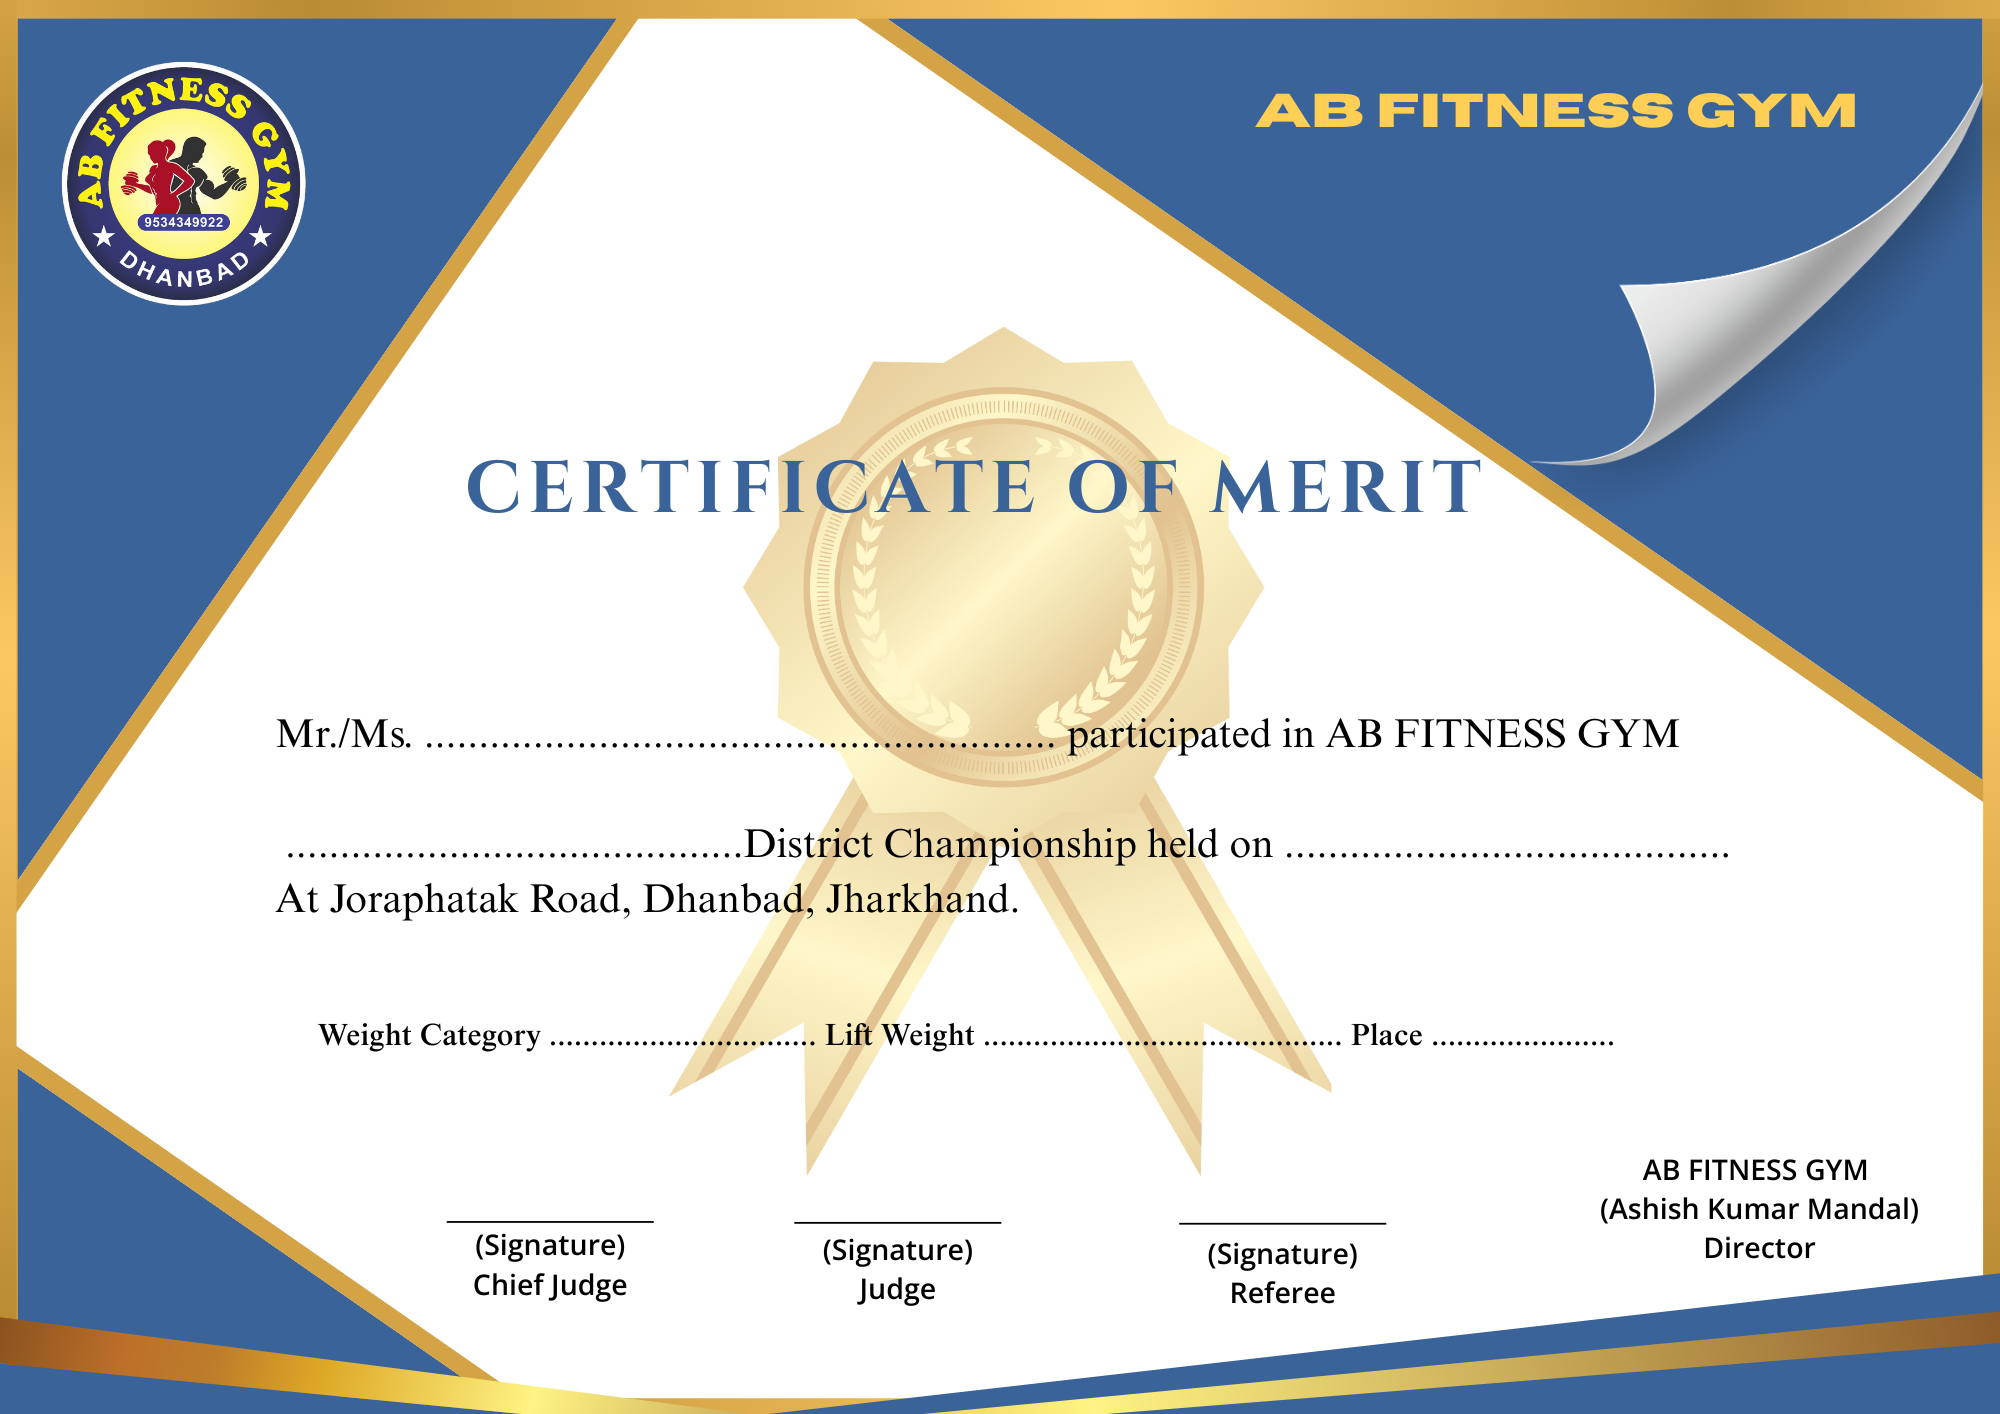
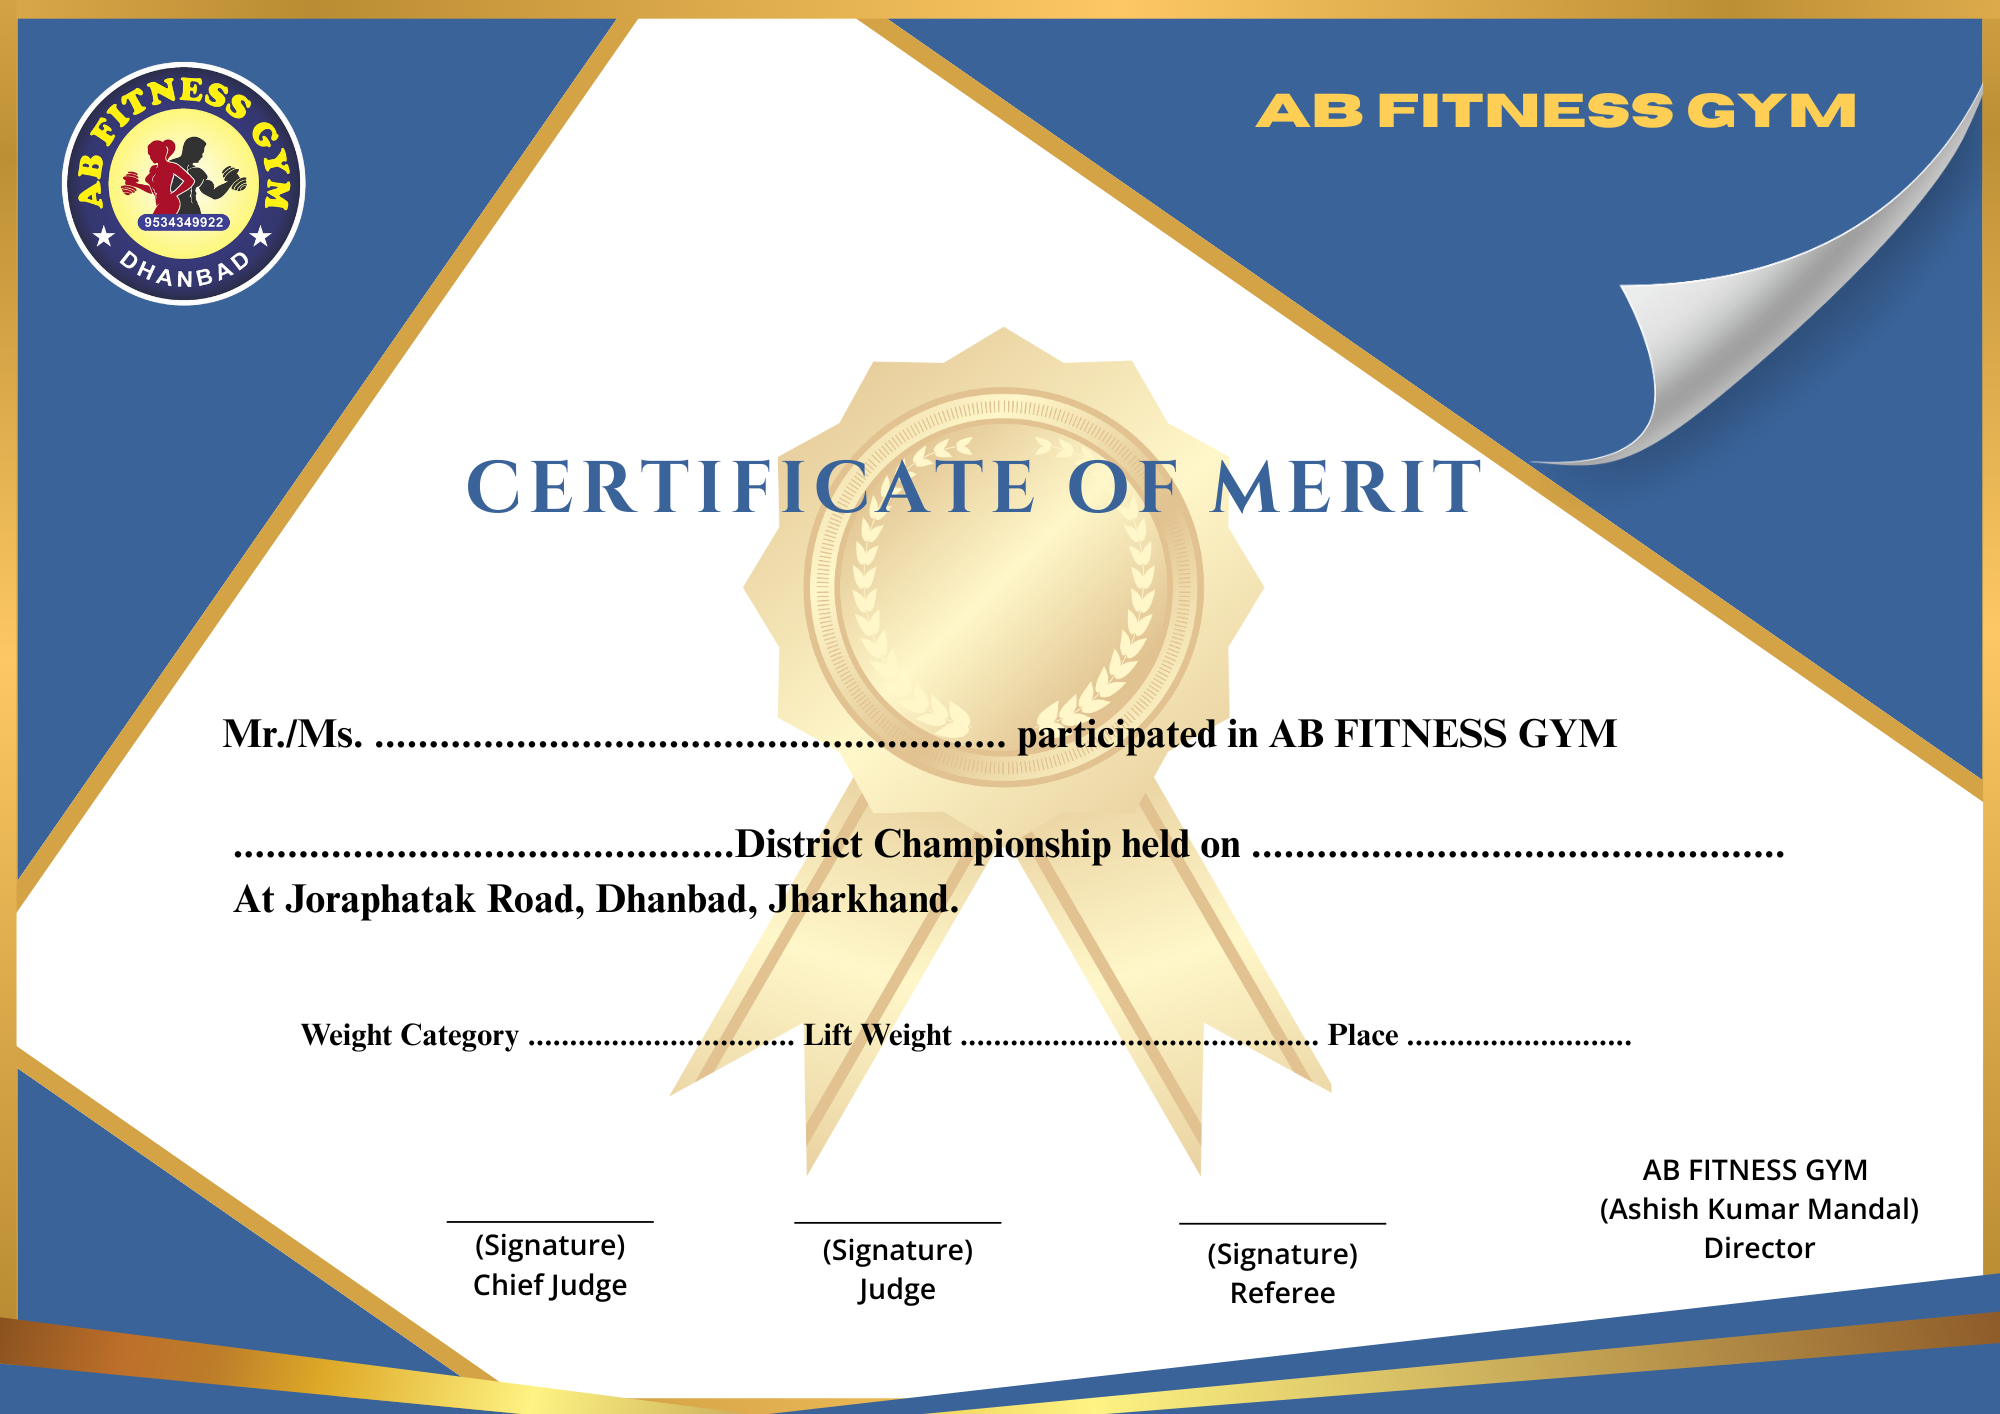
added discount input

diff --git a/frontend/src/pages/private/EditPage.jsx b/frontend/src/pages/private/EditPage.jsx
@@ -40,6 +40,7 @@ const EditMemberForm = () => {
     notes: "",
     profileImage: "",
     planEndDate: "",
+    discount:"",
   });
   const [imagePreview, setImagePreview] = useState(null);
   const [errors, setErrors] = useState({});
@@ -96,7 +97,9 @@ const EditMemberForm = () => {
   }, [isSuccess]);
 
   const selectedPlan = plans.find((p) => p.name === formData.membershipType);
-  const planPrice = selectedPlan?.durations?.[0]?.price || 0;
+   const rawPrice = selectedPlan?.durations?.[0]?.price || 0;
+  const discountPercent = parseFloat(formData.discount) || 0;
+  const planPrice = rawPrice - (rawPrice * discountPercent) / 100;
   const planDuration = selectedPlan?.durations?.[0]?.months;
 
   const handleChange = (e) => {
@@ -122,7 +125,6 @@ const EditMemberForm = () => {
   const handleSubmit = (e) => {
     e.preventDefault();
     if (!validate()) return;
-
     editMember({ id, data: formData, planPrice, renewPlan });
   };
 
@@ -233,6 +235,15 @@ const EditMemberForm = () => {
               value={formData.gender}
               onChange={handleChange}
               options={["Male", "Female", "Other"]}
+            />
+             <InputField
+              label="Discount (%)"
+              name="discount"
+              type="number"
+              value={formData.discount}
+              onChange={handleChange}
+              error={errors.discount}
+              placeholder="e.g. 10"
             />
 
             <SelectField

diff --git a/frontend/src/apis/AddMember.js b/frontend/src/apis/AddMember.js
@@ -15,7 +15,7 @@ export const AddMember = async (data) => {
   formData.append("status", data.formData.status);
   formData.append("address", data.formData.address);
   formData.append("notes", data.formData.notes);
-  formData.append("discount",data.formData.discount);
+  formData.append("discount", data.formData.discount);
 
   try {
     const response = await fetch(`${API_BASE_URL}/dashboard/add-profile`, {
@@ -37,7 +37,7 @@ export const AddMember = async (data) => {
   }
 };
 
-export const EditMember = async ({ id, data, planPrice,renewPlan }) => {
+export const EditMember = async ({ id, data, planPrice, renewPlan }) => {
   const formData = new FormData();
   formData.append("fullname", data.name);
   formData.append("email", data.email);
@@ -51,8 +51,9 @@ export const EditMember = async ({ id, data, planPrice,renewPlan }) => {
   formData.append("status", data.status);
   formData.append("address", data.address);
   formData.append("notes", data.notes);
-  formData.append("renewPlan",renewPlan);
-  formData.append("renewDate",data.renewDate)
+  formData.append("discount", data.discount);
+  formData.append("renewPlan", renewPlan);
+  formData.append("renewDate", data.renewDate);
 
   if (data.profileImage instanceof File) {
     formData.append("file", data.profileImage);
@@ -98,4 +99,3 @@ export const deleteMember = async (id) => {
     throw error;
   }
 };
-

diff --git a/backend/controllers/userController.js b/backend/controllers/userController.js
@@ -134,11 +134,12 @@ const editClient = async (req, res) => {
       plan,
       planPrice,
       emergencyContact,
+      discount,
       status,
       address,
       notes,
       renewPlan,
-      renewDate
+      renewDate,
     } = req.body;
 
     // Check for required fields
@@ -226,6 +227,7 @@ const editClient = async (req, res) => {
       client.plan = plan;
       client.planPrice = planPrice;
       client.membershipDeadline = membershipDeadline;
+      
 
       // Create invoice
       const newInvoice = new invoiceModel({
@@ -235,6 +237,7 @@ const editClient = async (req, res) => {
         date: Date.now(),
         status: status,
         whatsappNumber: phone,
+        discount:discount
       });
       await newInvoice.save();
     }

diff --git a/backend/utils/generateCertificate.js b/backend/utils/generateCertificate.js
@@ -51,7 +51,7 @@ const generateCertificate = async (
   // drawText(ctx, "CHAMPIONSHIP", 960, 430, 80, "#3A6399");
   drawText(ctx, `${course} CHAMPIONSHIP`, 960, 600, 60, "#3A6399");
   drawText(ctx, name, 740, 740, 50);
-  drawText(ctx, course, 510, 845, 40);
+  drawText(ctx, course, 470, 845, 40);
   drawText(ctx, date, 1520, 845, 35);
   drawText(ctx, weightcategory, 700, 1033, 45);
   drawText(ctx, weightlift, 1130, 1033, 45);
